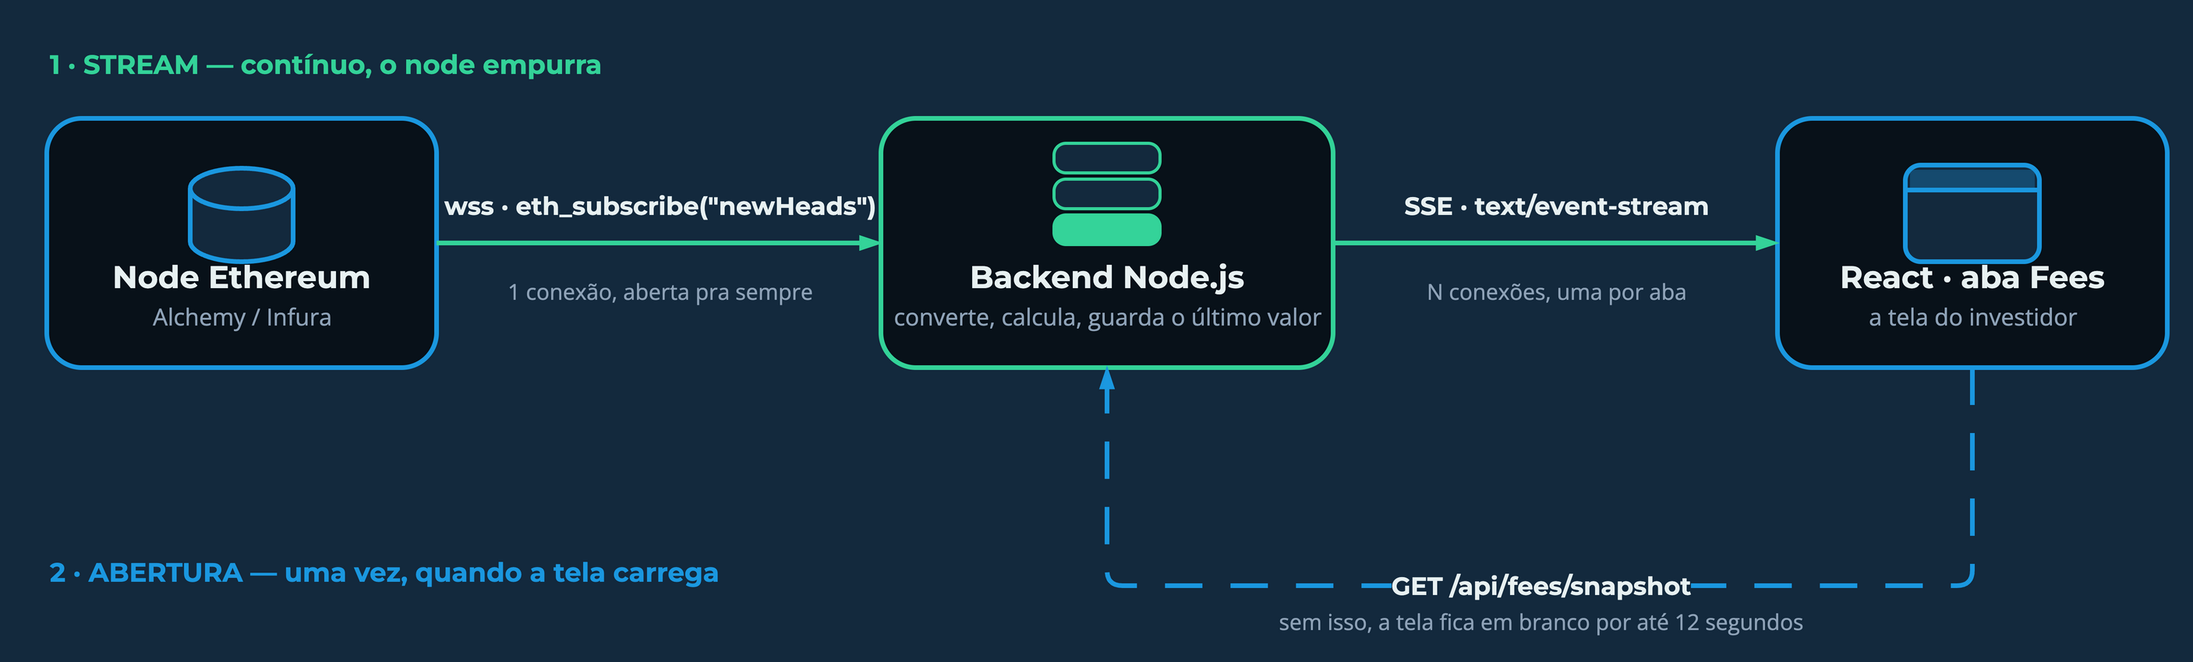
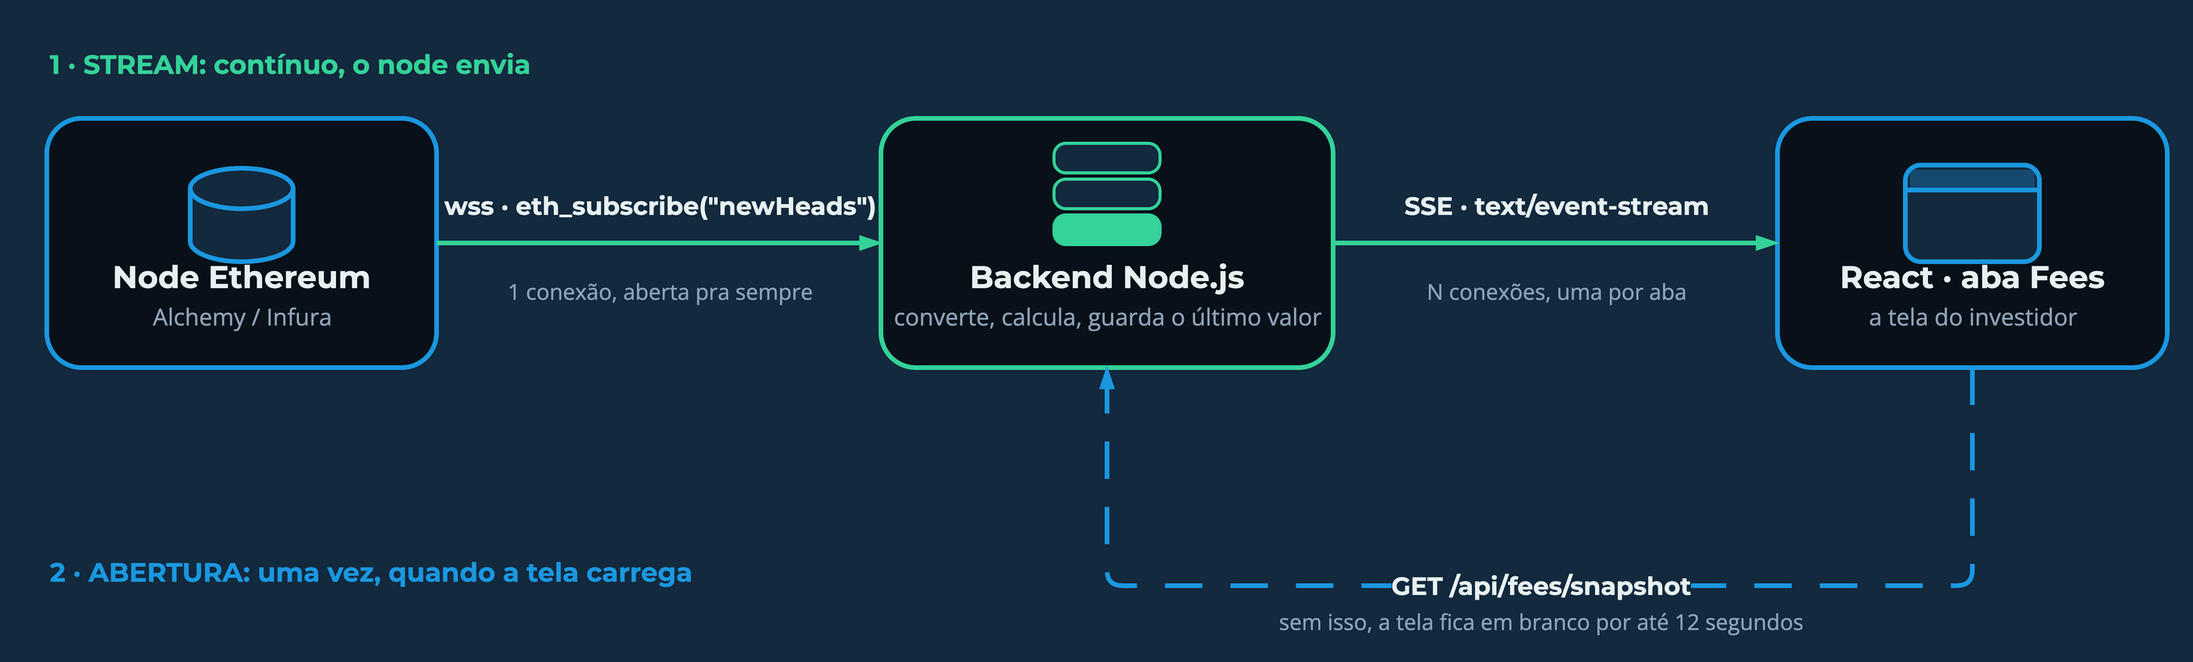
fix(slides): o backfill da faixa 05 estava na ordem errada
O snippet reconnect.js preenchia o buraco e só depois assinava. Se o
backfill leva oito segundos, os blocks que saem nesses oito segundos já
passaram do alvo da busca e ainda não estão na assinatura: o conserto do
buraco antigo abre um novo. Agora assina primeiro, guarda num buffer o que
chegar, busca o intervalo, e solta o buffer no fim.

Também faltavam duas coisas no mesmo snippet:
- o blockAtual aparecia do nada. Agora mostra que ele vem de um
  eth_blockNumber por HTTP
- o número do block ia em decimal, e o eth_getBlockByNumber quer
  hexadecimal. E o segundo parâmetro não era opcional: com false vem só o
  header, com true vem cada transação inteira

Notas do slide reescritas em cima disso, com o teto do backfill e o
lembrete de que resposta em batch volta fora de ordem, casada pelo id.
Mesmas correções no pass2 e no pass3 do lesson.

Troca de vocabulário pedida: "empurra" vira "envia" nos cinco lugares.
Isso incluiu o rótulo dentro do arquitetura.png, então o diagrama foi
regerado. Aproveitei pra tirar dois travessões dos rótulos dele, que
tinham escapado da regra, e pra versionar o .drawio junto do PNG (o XML
já ia embutido na imagem, mas o arquivo solto evita ter que extrair).

Changed region(s): [[0.0928, 0.8565, 0.3402, 0.8871], [0.0928, 0.0612, 0.2784, 0.1224]]

diff --git a/apps/web/components/admin/meetings/lessons/websocket-rpc-blockchain.ts b/apps/web/components/admin/meetings/lessons/websocket-rpc-blockchain.ts
@@ -280,7 +280,7 @@ export const websocketRpcBlockchain: Lesson = {
       pass1:
         'O WebSocket resolve exatamente o problema do beat 1: ele deixa o servidor falar primeiro. E o truque é elegante. Ele **começa** como uma requisição HTTP comum, com um cabeçalho pedindo `Upgrade: websocket`. O servidor responde `101 Switching Protocols`, e aquele mesmo socket TCP para de falar HTTP e passa a trocar frames nos dois sentidos. É por isso que o WebSocket atravessa firewall e proxy corporativo: na porta de entrada, ele parecia HTTP.',
       pass2:
-        '**O handshake**: o cliente manda um `GET` com `Upgrade: websocket`, `Connection: Upgrade` e uma `Sec-WebSocket-Key` aleatória. O servidor responde `101` com a `Sec-WebSocket-Accept` derivada dessa chave. Isso acontece uma vez só, no começo. Depois disso ninguém manda cabeçalho HTTP nunca mais, só frames.\n\n**A inversão acontece aqui**: você manda `{"jsonrpc":"2.0","id":1,"method":"eth_subscribe","params":["newHeads"]}` e recebe de volta um id de assinatura. A partir desse instante, a cada block novo, o node manda a mensagem sozinho. Você não pergunta mais nada.\n\n**Repare no campo que sumiu**: as mensagens que o node empurra **não têm `id`**. Elas chegam com `"method":"eth_subscription"` e o payload dentro de `params.result`. E faz todo sentido: o `id` serve para casar uma resposta com a pergunta que a originou, e aqui não houve pergunta nenhuma.\n\n**Existem outros canais além do newHeads**: o canal `logs` entrega eventos emitidos por contratos, e dá para filtrar por endereço e por tópico. O `newPendingTransactions` entrega a mempool crua, transação por transação. Guardem o nome desse último, porque ele volta como armadilha no beat 8.\n\n**No projeto**: isso aqui é o salto 1 inteiro. Quando o TAP escreve "conexão blockchain: WebSockets via provedores RPC", ele está falando exatamente desse `eth_subscribe`. A semana 2 do cronograma de vocês é fazer essa linha funcionar.',
+        '**O handshake**: o cliente manda um `GET` com `Upgrade: websocket`, `Connection: Upgrade` e uma `Sec-WebSocket-Key` aleatória. O servidor responde `101` com a `Sec-WebSocket-Accept` derivada dessa chave. Isso acontece uma vez só, no começo. Depois disso ninguém manda cabeçalho HTTP nunca mais, só frames.\n\n**A inversão acontece aqui**: você manda `{"jsonrpc":"2.0","id":1,"method":"eth_subscribe","params":["newHeads"]}` e recebe de volta um id de assinatura. A partir desse instante, a cada block novo, o node manda a mensagem sozinho. Você não pergunta mais nada.\n\n**Repare no campo que sumiu**: as mensagens que o node envia **não têm `id`**. Elas chegam com `"method":"eth_subscription"` e o payload dentro de `params.result`. E faz todo sentido: o `id` serve para casar uma resposta com a pergunta que a originou, e aqui não houve pergunta nenhuma.\n\n**Existem outros canais além do newHeads**: o canal `logs` entrega eventos emitidos por contratos, e dá para filtrar por endereço e por tópico. O `newPendingTransactions` entrega a mempool crua, transação por transação. Guardem o nome desse último, porque ele volta como armadilha no beat 8.\n\n**No projeto**: isso aqui é o salto 1 inteiro. Quando o TAP escreve "conexão blockchain: WebSockets via provedores RPC", ele está falando exatamente desse `eth_subscribe`. A semana 2 do cronograma de vocês é fazer essa linha funcionar.',
       pass3: [
         {
           gotcha: 'Achar que o WebSocket é um protocolo separado desde o começo',
@@ -354,7 +354,7 @@ export const websocketRpcBlockchain: Lesson = {
       pass1:
         'Uma conexão que fica aberta por horas vai cair. Um deploy reinicia o processo, o wifi do Inteli oscila, o provedor derruba conexões ociosas, a máquina dorme. O WebSocket não reconecta sozinho, diferente do SSE que vocês vão ver mais para a frente. E existe um problema pior do que a reconexão: enquanto você esteve fora, a rede continuou produzindo blocks, e ninguém guardou esses blocks para você.',
       pass2:
-        '**O retry é código seu**: no evento `close`, tente de novo com **backoff exponencial** (1s, 2s, 4s, 8s, até um teto de 30s) e some um valor aleatório em cima, que é o **jitter**. Sem esse valor aleatório, quando o provedor cair e voltar, todos os seus clientes reconectam no mesmo milissegundo e derrubam ele de novo.\n\n**Uma conexão morta continua parecendo viva**: o TCP não te avisa quando o outro lado sumiu sem fechar direito. Você fica escutando um canal vazio achando que a rede está calma. O jeito de saber é mandar um **ping** a cada 30 segundos e derrubar a conexão se o pong não voltar.\n\n**O buraco é o bug de verdade**: 40 segundos fora são cerca de 3 blocks que você nunca viu. Você reconecta, manda o `eth_subscribe` de novo, e o stream volta a partir do block atual. O gráfico do painel fica com um dente e ninguém entende de onde ele veio.\n\n**O conserto se chama backfill**: guarde o número do último block que você processou. Ao reconectar, busque do próximo até o atual **por HTTP** (`eth_getBlockByNumber` em loop), preencha o buraco, e só então volte a confiar no stream. A regra que sai daqui: **o WebSocket entrega o presente, e o HTTP busca o passado**. Os dois convivem no mesmo serviço, e é por isso que você configura os dois transportes.\n\n**No projeto**: a semana 3 do cronograma é "resolução de bugs e polimento". Esse é o bug, e ele tem uma característica cruel: em vinte minutos de teste local ele nunca aparece. Ele aparece na demo do dia 05/10.',
+        '**O retry é código seu**: no evento `close`, tente de novo com **backoff exponencial** (1s, 2s, 4s, 8s, até um teto de 30s) e some um valor aleatório em cima, que é o **jitter**. Sem esse valor aleatório, quando o provedor cair e voltar, todos os seus clientes reconectam no mesmo milissegundo e derrubam ele de novo.\n\n**Uma conexão morta continua parecendo viva**: o TCP não te avisa quando o outro lado sumiu sem fechar direito. Você fica escutando um canal vazio achando que a rede está calma. O jeito de saber é mandar um **ping** a cada 30 segundos e derrubar a conexão se o pong não voltar.\n\n**O buraco é o bug de verdade**: 40 segundos fora são cerca de 3 blocks que você nunca viu. Você reconecta, manda o `eth_subscribe` de novo, e o stream volta a partir do block atual. O gráfico do painel fica com um dente e ninguém entende de onde ele veio.\n\n**O conserto se chama backfill, e a ordem dele importa**: guarde o número do último block que você processou. Ao reconectar, **assine primeiro** e guarde num buffer o que já começar a chegar. Só então descubra onde a rede está (`eth_blockNumber` por HTTP), busque do seu último até lá (`eth_getBlockByNumber`, com o número em hexadecimal e o segundo parâmetro em `false`, para não trazer as transações inteiras), e no fim solte o buffer. Se você inverter e assinar por último, os blocks que saírem durante a busca não entram nem no backfill nem no stream, e você abre um buraco novo consertando o antigo.\n\n**A regra que sai daqui**: o WebSocket entrega o presente, e o HTTP busca o passado. Os dois convivem no mesmo serviço, e é por isso que você configura os dois transportes.\n\n**No projeto**: a semana 3 do cronograma é "resolução de bugs e polimento". Esse é o bug, e ele tem uma característica cruel: em vinte minutos de teste local ele nunca aparece. Ele aparece na demo do dia 05/10.',
       pass3: [
         {
           gotcha: 'Fazer retry em loop apertado',
@@ -371,6 +371,18 @@ export const websocketRpcBlockchain: Lesson = {
         {
           gotcha: 'Achar que dá para assinar de novo e receber o passado',
           note: 'O eth_subscribe entrega do momento da assinatura em diante. O passado só sai por chamada HTTP explícita. Não existe replay no stream.',
+        },
+        {
+          gotcha: 'Assinar depois de preencher o buraco',
+          note: 'Se o backfill leva oito segundos, os blocks que saírem nesses oito segundos já passaram do alvo da busca e ainda não estão na assinatura. Some um buraco novo ao antigo. Assine primeiro, guarde num buffer, e solte no final.',
+        },
+        {
+          gotcha: 'Buscar o intervalo inteiro, sem teto',
+          note: 'Três dias fora são 21.600 blocks. Ponha um teto (umas 300 cobrem quatro horas) e marque o resto como buraco no gráfico. Se ainda for muita chamada, o JSON-RPC aceita um array de requisições, mas aí a resposta volta fora de ordem e é o id que casa cada uma.',
+        },
+        {
+          gotcha: 'Passar o número do block em decimal',
+          note: 'O eth_getBlockByNumber quer hexadecimal. E o segundo parâmetro não é opcional: com `true` cada block vem com todas as transações completas, e para o base fee você só precisa do header.',
         },
       ],
       anchor:
@@ -566,7 +578,7 @@ export const websocketRpcBlockchain: Lesson = {
       oneLine:
         'Do backend até o navegador o dado anda num sentido só. O SSE é uma resposta HTTP que você nunca fecha, ele reconecta sozinho, e no React são três linhas.',
       pass1:
-        'Server-Sent Events é a resposta mais simples possível para "o servidor precisa empurrar e o cliente só recebe". É uma requisição HTTP normal que o servidor **não encerra**: ele responde com `Content-Type: text/event-stream` e vai escrevendo no corpo conforme tem novidade. No navegador, o `EventSource` cuida do resto, incluindo o retry.',
+        'Server-Sent Events é a resposta mais simples possível para "o servidor precisa enviar e o cliente só recebe". É uma requisição HTTP normal que o servidor **não encerra**: ele responde com `Content-Type: text/event-stream` e vai escrevendo no corpo conforme tem novidade. No navegador, o `EventSource` cuida do resto, incluindo o retry.',
       pass2:
         '**O formato inteiro**: uma linha `data: {"baseFee":8.4}` seguida de uma linha em branco. Opcionalmente um `event: gas` para nomear o tipo e um `id: 23481902` para numerar. É só isso, é texto puro.\n\n**Por que SSE e não WebSocket nessa perna**: o painel só recebe. O `EventSource` reconecta sozinho e ainda reenvia o cabeçalho `Last-Event-ID` com o último id que viu, então o servidor sabe de onde continuar. Com WebSocket, todo o retry e a retomada que vocês escreveram no beat 5 teriam que ser escritos de novo, para ganhar um sentido de comunicação que ninguém vai usar.\n\n**A taxa de entrada não é a taxa de saída**: o `newHeads` chega uma vez a cada 12 segundos e cabe folgado. O `newPendingTransactions` chega milhares de vezes por segundo. Se vocês repassarem uma para uma ao navegador, a aba trava. O backend precisa **juntar o que chegou numa janela** de 1 segundo e mandar só o resultado. Vocês mandam a conclusão, não a matéria-prima.\n\n**Duas armadilhas de ambiente**: no HTTP/1.1 o navegador só abre 6 conexões simultâneas por domínio, e um stream SSE ocupa uma delas o tempo todo. Abra 6 abas do painel e a sétima requisição fica presa na fila. Com HTTP/2 as conexões multiplexam e o problema desaparece. A outra armadilha é o Nginx: com buffering ligado, ele segura a resposta inteira até o final, então funciona local e quebra atrás do proxy.\n\n**No projeto**: o TAP já decidiu isso ("entrega ao painel: SSE para o stream de dados em tempo real"). Agora vocês conseguem defender a decisão na demo, em vez de só cumprir ela.',
       pass3: [
@@ -641,7 +653,7 @@ export const websocketRpcBlockchain: Lesson = {
       pass1:
         'Hora de desenhar tudo junto. E existe uma assimetria aqui que a maioria dos projetos de tempo real descobre tarde: existem **dois caminhos** independentes. Um serve a primeira renderização, e o outro serve todas as atualizações seguintes. Eles usam transportes diferentes e falham de jeitos diferentes.',
       pass2:
-        '**O caminho de abertura (snapshot)**: o navegador faz `GET /api/fees/snapshot`, o backend responde na hora com o último valor que ele tem em memória (ou chama `eth_feeHistory` por HTTP se acabou de subir e ainda está frio), e o React pinta. Se vocês só tivessem o stream, a tela ficaria vazia por até 12 segundos esperando o próximo block, e o usuário concluiria que quebrou.\n\n**O caminho do stream**: o node empurra o `newHeads` pela conexão WebSocket, o backend converte o hexadecimal, aplica a cotação do ETH e calcula as faixas, grava esse resultado como "último valor" e num buffer curto para o gráfico, e escreve para todos os navegadores conectados por SSE.\n\n**A assimetria**: a primeira renderização é request e response, e todo o resto é push. Todo painel de tempo real tem essas duas pernas, e a de abertura é a que os times esquecem, porque ela nunca aparece durante o desenvolvimento (quando você testa, a aba já está aberta há uma hora).\n\n**Onde o estado mora**: o último valor e o buffer do gráfico ficam em memória, no processo Node. Para o protótipo do TAP isso é suficiente e é a escolha certa: uma instância, um estado, zero infraestrutura extra. Se um dia isso rodar em duas instâncias, cada uma abre a própria conexão com o node e guarda o próprio último valor, e aí o número muda dependendo de qual instância atendeu. Nesse dia a resposta é separar os papéis: um processo único cuidando da conexão com o node, e os processos de entrega lendo de um lugar comum.\n\n**No projeto**: quando o TAP fala em "protótipo funcional de ponta a ponta", esse desenho é a ponta a ponta. Vale desenhar ele na lousa no kick-off do dia 14/09 e conferir contra ele na semana 3.',
+        '**O caminho de abertura (snapshot)**: o navegador faz `GET /api/fees/snapshot`, o backend responde na hora com o último valor que ele tem em memória (ou chama `eth_feeHistory` por HTTP se acabou de subir e ainda está frio), e o React pinta. Se vocês só tivessem o stream, a tela ficaria vazia por até 12 segundos esperando o próximo block, e o usuário concluiria que quebrou.\n\n**O caminho do stream**: o node envia o `newHeads` pela conexão WebSocket, o backend converte o hexadecimal, aplica a cotação do ETH e calcula as faixas, grava esse resultado como "último valor" e num buffer curto para o gráfico, e escreve para todos os navegadores conectados por SSE.\n\n**A assimetria**: a primeira renderização é request e response, e todo o resto é push. Todo painel de tempo real tem essas duas pernas, e a de abertura é a que os times esquecem, porque ela nunca aparece durante o desenvolvimento (quando você testa, a aba já está aberta há uma hora).\n\n**Onde o estado mora**: o último valor e o buffer do gráfico ficam em memória, no processo Node. Para o protótipo do TAP isso é suficiente e é a escolha certa: uma instância, um estado, zero infraestrutura extra. Se um dia isso rodar em duas instâncias, cada uma abre a própria conexão com o node e guarda o próprio último valor, e aí o número muda dependendo de qual instância atendeu. Nesse dia a resposta é separar os papéis: um processo único cuidando da conexão com o node, e os processos de entrega lendo de um lugar comum.\n\n**No projeto**: quando o TAP fala em "protótipo funcional de ponta a ponta", esse desenho é a ponta a ponta. Vale desenhar ele na lousa no kick-off do dia 14/09 e conferir contra ele na semana 3.',
       pass3: [
         {
           gotcha: 'Ter só o stream',
@@ -713,7 +725,7 @@ export const websocketRpcBlockchain: Lesson = {
       pass1:
         'A aula inteira cabe numa pergunta. Em cada perna do desenho, alguém precisa começar a conversa. Se é o cliente que pergunta, você tem polling e todo o desperdício que vem junto. Se é o servidor que avisa, você precisa de uma conexão que fica aberta, e aí escolhe o transporte pela direção do dado: WebSocket quando os dois lados falam, SSE quando só um fala.',
       pass2:
-        '**Uma conexão para cima, muitas para baixo**: o dado é um só, então você busca uma vez. As telas são muitas, então você distribui. Fan-in e fan-out são o formato de qualquer sistema de tempo real, do painel de gas ao mapa da Uber.\n\n**O transporte se escolhe pela direção, não pela moda**: nos dois saltos o servidor empurra, mas no salto de cima você também precisa mandar comandos (assinar, cancelar), e por isso ele é WebSocket. No salto de baixo você só recebe, e por isso o SSE basta, e ainda entrega o retry pronto.\n\n**O stream conta o presente, e o HTTP conta o passado**: a assinatura entrega do momento em que você assinou em diante, e nada antes disso. Todo buraco, seja uma queda de conexão ou a primeira vez que a tela abre, se preenche com uma requisição comum. Os dois transportes convivem no mesmo serviço porque respondem perguntas diferentes.\n\n**A taxa de entrada não é a taxa de saída**: entre o que chega e o que você repassa existe uma decisão sua. Junte, converta, resuma. Mande a conclusão pronta.\n\n**E esse desenho não é sobre blockchain**: ele aparece em qualquer tela que mostra dado ao vivo, seja preço de ação, ônibus no mapa ou sensor de fábrica. O que muda é a fonte no começo da linha. Do backend para a frente, continua tudo igual.',
+        '**Uma conexão para cima, muitas para baixo**: o dado é um só, então você busca uma vez. As telas são muitas, então você distribui. Fan-in e fan-out são o formato de qualquer sistema de tempo real, do painel de gas ao mapa da Uber.\n\n**O transporte se escolhe pela direção, não pela moda**: nos dois saltos o servidor envia, mas no salto de cima você também precisa mandar comandos (assinar, cancelar), e por isso ele é WebSocket. No salto de baixo você só recebe, e por isso o SSE basta, e ainda entrega o retry pronto.\n\n**O stream conta o presente, e o HTTP conta o passado**: a assinatura entrega do momento em que você assinou em diante, e nada antes disso. Todo buraco, seja uma queda de conexão ou a primeira vez que a tela abre, se preenche com uma requisição comum. Os dois transportes convivem no mesmo serviço porque respondem perguntas diferentes.\n\n**A taxa de entrada não é a taxa de saída**: entre o que chega e o que você repassa existe uma decisão sua. Junte, converta, resuma. Mande a conclusão pronta.\n\n**E esse desenho não é sobre blockchain**: ele aparece em qualquer tela que mostra dado ao vivo, seja preço de ação, ônibus no mapa ou sensor de fábrica. O que muda é a fonte no começo da linha. Do backend para a frente, continua tudo igual.',
       pass3: [
         {
           gotcha: 'Sair daqui achando que a aula foi sobre WebSocket',

diff --git a/apps/web/public/slides/websocket-rpc-blockchain.html b/apps/web/public/slides/websocket-rpc-blockchain.html
@@ -300,18 +300,26 @@ const SLIDES = [
       "})",
       "",
       "<span class='kw'>async function</span> aoReconectar() {",
-      "  <span class='cm'>// o stream volta do block ATUAL.</span>",
-      "  <span class='cm'>// o que passou enquanto você estava fora é problema seu.</span>",
-      "  <span class='kw'>for</span> (<span class='kw'>let</span> n = ultimoBlock + 1; n &lt;= blockAtual; n++)",
-      "    processar(<span class='kw'>await</span> httpRpc(<span class='st'>'eth_getBlockByNumber'</span>, n))",
+      "  <span class='kw'>const</span> buffer = []",
+      "  ws.on(<span class='st'>'message'</span>, (m) =&gt; buffer.push(m))",
+      "  <span class='kw'>await</span> assinar(<span class='st'>'newHeads'</span>)  <span class='cm'>// ANTES de buscar o passado</span>",
       "",
-      "  assinar(<span class='st'>'newHeads'</span>)  <span class='cm'>// sem isso, nada chega</span>",
+      "  <span class='cm'>// onde a rede está agora: outra chamada, por HTTP</span>",
+      "  <span class='kw'>const</span> alvo = parseInt(<span class='kw'>await</span> httpRpc(<span class='st'>'eth_blockNumber'</span>, []), 16)",
+      "",
+      "  <span class='kw'>for</span> (<span class='kw'>let</span> n = ultimoBlock + 1; n &lt;= alvo; n++)",
+      "    processar(<span class='kw'>await</span> httpRpc(<span class='st'>'eth_getBlockByNumber'</span>, [",
+      "      <span class='st'>'0x'</span> + n.toString(16),  <span class='cm'>// hex, não decimal</span>",
+      "      <span class='kw'>false</span>,                   <span class='cm'>// só o header, sem as tx</span>",
+      "    ]))",
+      "",
+      "  buffer.forEach(processar)  <span class='cm'>// solta o que chegou no meio</span>",
       "}",
     ],
     notes: [
-      ['O WebSocket entrega o presente', 'A assinatura começa a valer no momento em que você a envia. Nada do que aconteceu antes disso chega por ela.'],
-      ['O HTTP busca o passado', 'Todo buraco, seja uma queda de conexão ou a primeira vez que a tela abre, se preenche com uma requisição comum. É por isso que o mesmo serviço usa os dois transportes.'],
-      ['Esse bug não aparece testando local', 'Em vinte minutos de teste na sua máquina a conexão nunca cai. Ela cai na demo, e o gráfico fica com um buraco que ninguém sabe explicar.'],
+      ['A ordem importa', 'Se você assinar depois de preencher o buraco, os blocks que saírem durante a busca não entram nem no backfill nem no stream. Você abre um buraco novo consertando o antigo. Assine primeiro, guarde num buffer, e solte no final.'],
+      ['Um transporte pro presente, outro pro passado', 'A assinatura entrega do momento em que você a envia em diante. Todo buraco, seja uma queda ou a primeira vez que a tela abre, se preenche com requisição comum. Por isso o mesmo serviço configura os dois.'],
+      ['Ponha um teto na busca', 'Três dias fora são 21.600 blocks. Busque no máximo umas 300, que cobrem quatro horas, e marque o resto como buraco no gráfico. Se for muita chamada, o JSON-RPC aceita um array de requisições, mas aí a resposta volta fora de ordem e é o id que casa cada uma.'],
     ] },
 
   // ───────── 03 · Do dado ao painel ─────────
@@ -387,7 +395,7 @@ const SLIDES = [
     ] },
   { type: 'compare3', beat: 8, kicker: 'A escolha se faz pela direção do dado, e por quem escreve o retry', cards: [
       { tag: 'polling', title: 'O cliente pergunta', sub: 'e quase toda resposta se repete', bad: true, points: ['Você paga por toda pergunta, inclusive as que não trazem nada', 'A latência nunca fica menor que o intervalo entre as perguntas', 'Diminuir o intervalo só aumenta o desperdício'] },
-      { tag: 'sse', title: 'O servidor empurra', sub: 'um sentido só, sobre HTTP comum', live: true, points: ['O painel só recebe, e é tudo que ele precisa fazer', 'O retry já vem pronto, junto com o Last-Event-ID', 'São três linhas de código no React'] },
+      { tag: 'sse', title: 'O servidor envia', sub: 'um sentido só, sobre HTTP comum', live: true, points: ['O painel só recebe, e é tudo que ele precisa fazer', 'O retry já vem pronto, junto com o Last-Event-ID', 'São três linhas de código no React'] },
       { tag: 'websocket', title: 'Os dois falam', sub: 'dois sentidos, no mesmo canal', points: ['Você precisa mandar comandos, como assinar e cancelar', 'O retry e o heartbeat são código seu', 'É o transporte que a gente usou entre o backend e o node'] },
     ] },
 
